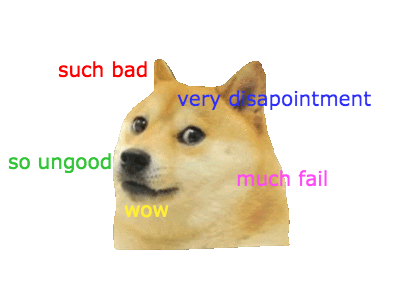
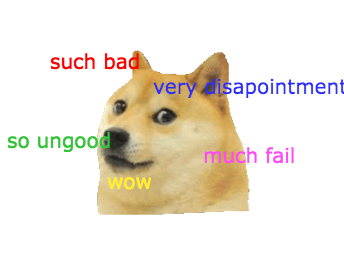
#yoloswag

diff --git a/AdventuresFluffles.js b/AdventuresFluffles.js
@@ -41,8 +41,8 @@ var diescreen  = {
     },
 
     create: function() {   
-        game.add.sprite(400 - 200, 300, 'doge');
-        game.add.sprite(400 - 595/2, 100, 'yousuck');
+        game.add.sprite(400 - 344/2, 350, 'doge');
+        game.add.sprite(400 - 555/2, 50, 'yousuck');
         
         var space =             game.input.keyboard.addKey(Phaser.Keyboard.SPACEBAR);
         space.onDown.add(this.startGame, this);
